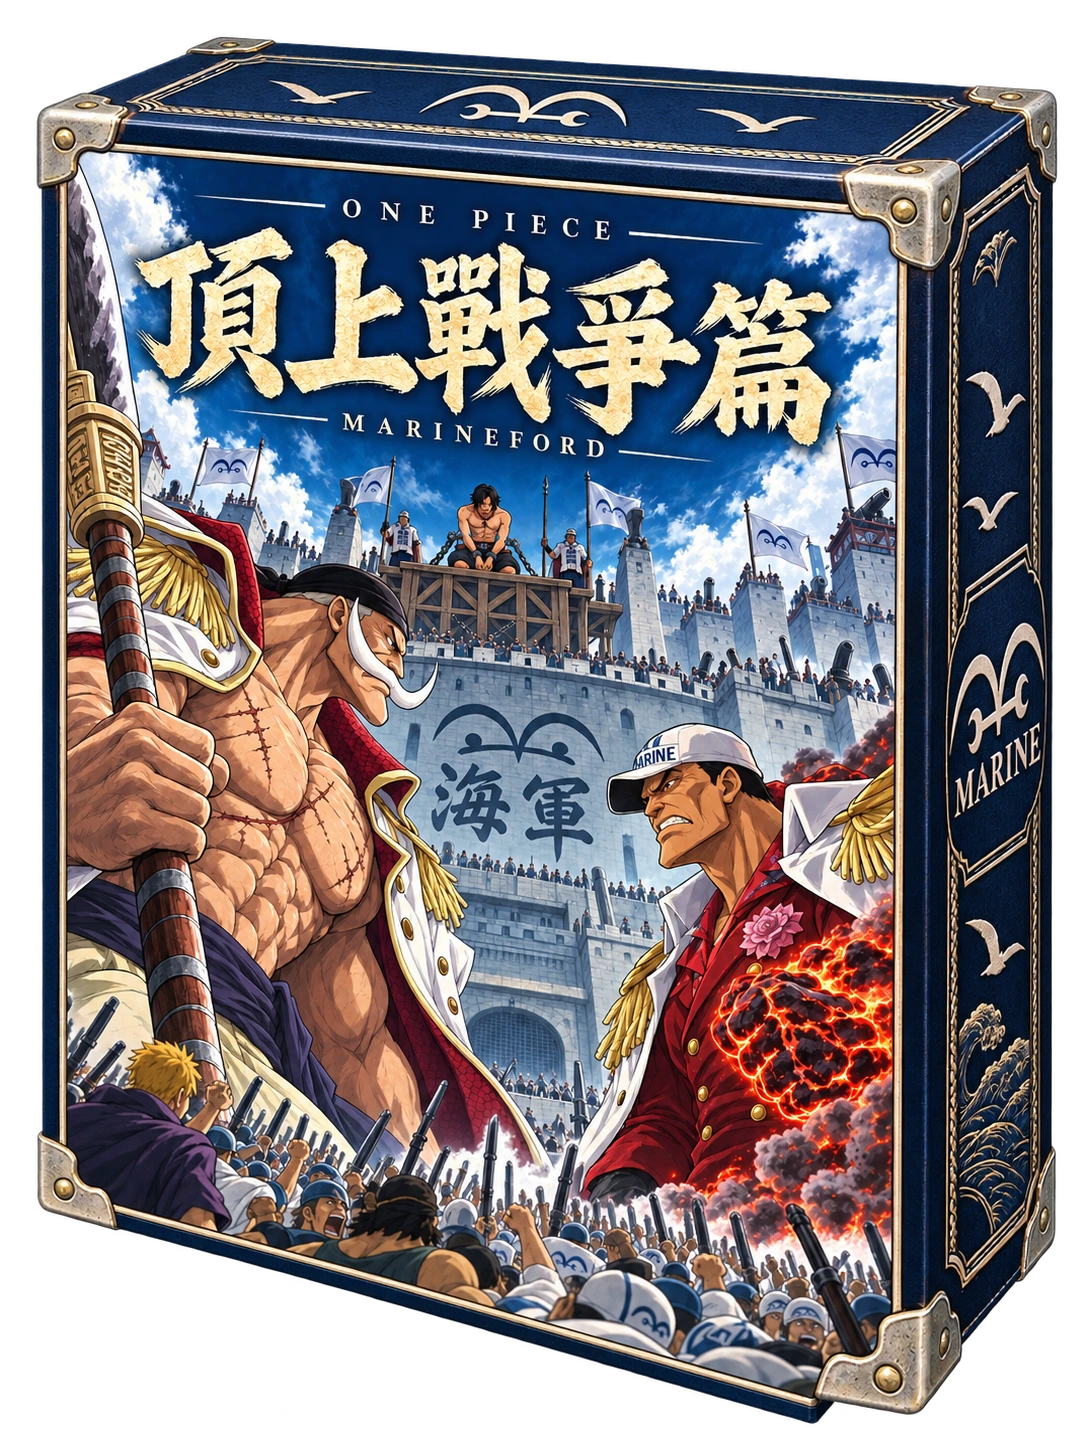
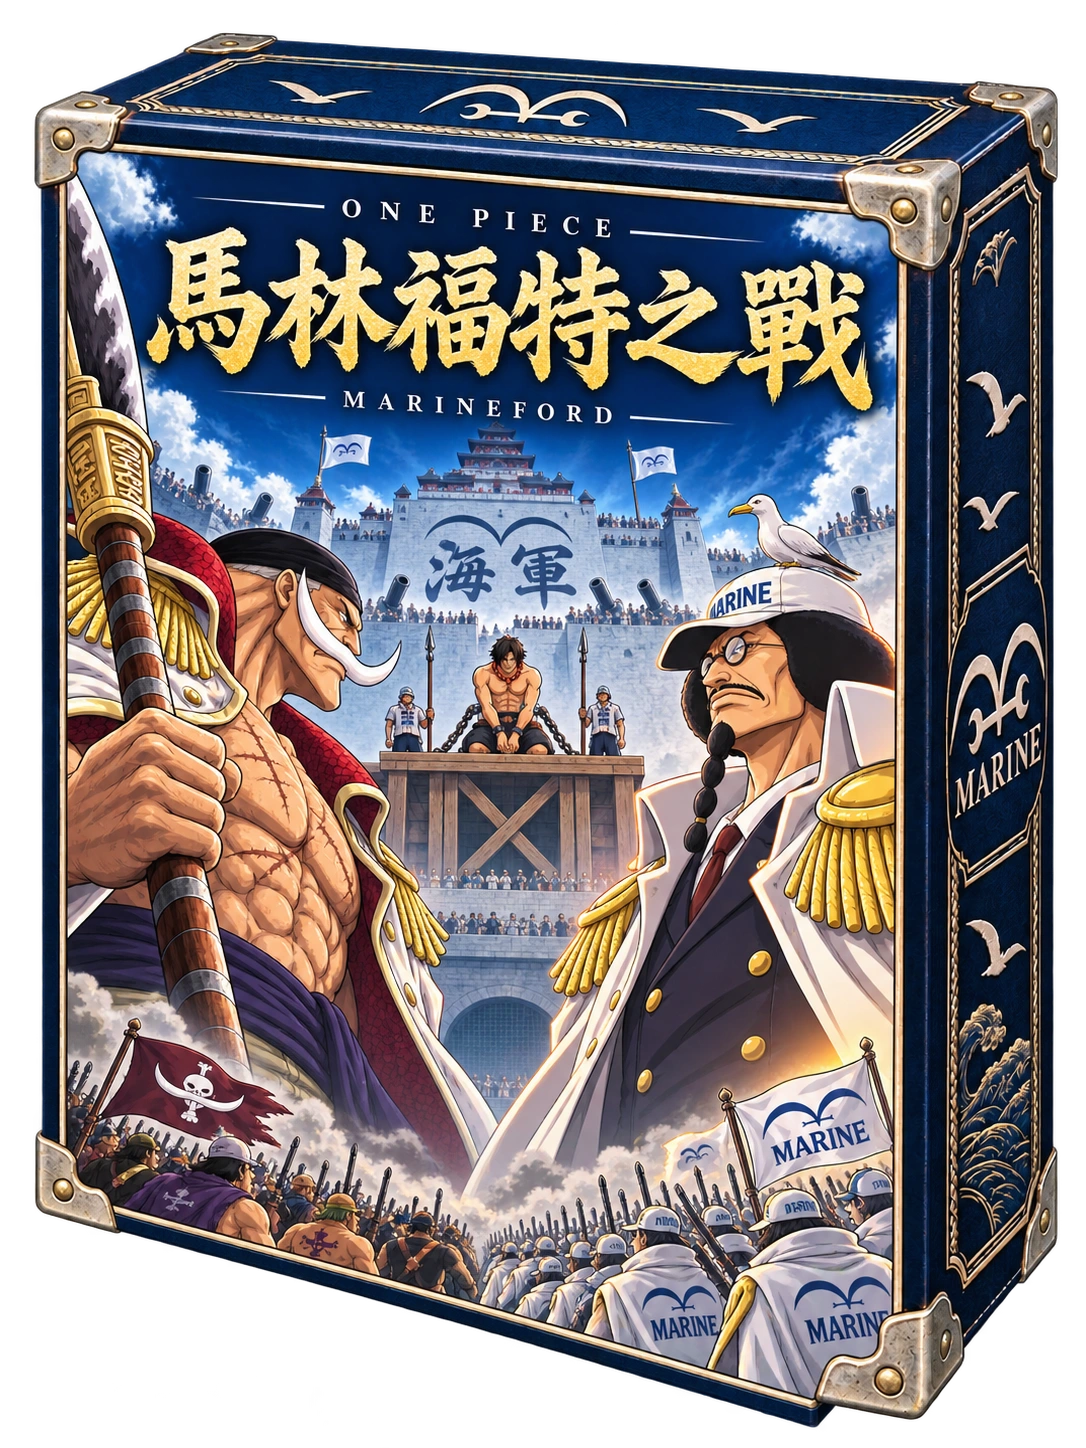
Rename Marineford and refresh launcher covers

diff --git a/public/marineford/marineford.js b/public/marineford/marineford.js
@@ -156,22 +156,22 @@
  socket.on('EMIT',payload=>{
   if(payload?.type==='toast'&&payload.text){notify(payload.text);return;}
   const inv=payload?.invite;if(payload?.type!=='marineford_lobby_invite'||!inv||view)return;
-  document.querySelector('.mf-invite')?.remove();const panel=node('aside',null,'mf-invite');panel.append(node('strong',inv.fromName+' 邀請你加入頂上戰爭篇'),node('p','房間 '+inv.roomId));
+  document.querySelector('.mf-invite')?.remove();const panel=node('aside',null,'mf-invite');panel.append(node('strong',inv.fromName+' 邀請你加入馬林福特之戰'),node('p','房間 '+inv.roomId));
   for(const [label,action] of [['加入','accept'],['拒絕','reject']])panel.append(button(label,async()=>{panel.remove();if(action==='accept'&&(room||view)){notify('請先離開目前房間');return;}const result=await friendRequest('LOBBY_INVITE_RESPOND',{inviteId:inv.inviteId,action});if(result.ok&&action==='accept'){enteredLobby=true;await request('MF_JOIN',{code:result.roomId});}},'small-button'));
   document.body.append(panel);setTimeout(()=>panel.remove(),Math.max(0,inv.expiresAt-Date.now()));
  });
- function renderLobby(){if(view)return;$('menuButton').hidden=!enteredLobby&&!room;document.body.dataset.screen='lobby';$('justice').hidden=true;$('health').replaceChildren();$('lobby').hidden=false;$('table').hidden=true;const body=$('lobbyBody');body.replaceChildren();$('lobby').dataset.waiting=String(!!room);$('lobby').dataset.splash=String(authenticated&&!room&&!enteredLobby);$('lobby').dataset.mode=!room&&enteredLobby&&authenticated?'main':'entry';if(!authenticated){body.append(node('p','請從啟動器登入帳號後進入頂上戰爭篇。'));return;}
-  if(!room&&!enteredLobby){const enter=button('',()=>{enteredLobby=true;renderLobby();},'mf-splash');enter.setAttribute('aria-label','點擊進入');enter.append(node('span','MARINEFORD','mf-splash-kicker'),node('strong','頂上戰爭篇','mf-splash-title'),node('span','點擊進入','mf-splash-prompt'));body.append(enter);return;}
+ function renderLobby(){if(view)return;$('menuButton').hidden=!enteredLobby&&!room;document.body.dataset.screen='lobby';$('justice').hidden=true;$('health').replaceChildren();$('lobby').hidden=false;$('table').hidden=true;const body=$('lobbyBody');body.replaceChildren();$('lobby').dataset.waiting=String(!!room);$('lobby').dataset.splash=String(authenticated&&!room&&!enteredLobby);$('lobby').dataset.mode=!room&&enteredLobby&&authenticated?'main':'entry';if(!authenticated){body.append(node('p','請從啟動器登入帳號後進入馬林福特之戰。'));return;}
+  if(!room&&!enteredLobby){const enter=button('',()=>{enteredLobby=true;renderLobby();},'mf-splash');enter.setAttribute('aria-label','點擊進入');enter.append(node('span','MARINEFORD','mf-splash-kicker'),node('strong','馬林福特之戰','mf-splash-title'),node('span','點擊進入','mf-splash-prompt'));body.append(enter);return;}
   if(!room){const identity=node('div',null,'lobby-identity');identity.append(avatar(you),node('strong',me.name),node('span','已登入'));body.append(identity);
    const row=node('div',null,'lobby-entry lobby-menu');
    row.append(button('開始遊戲',openRoomChoice),button('個人頁面',profile),button('遊戲規則',showRules));
    body.append(row);
    const links=node('div',null,'lobby-links');
-   links.append(button('好友',openFriends,'small-button'),button('卡片圖鑑',()=>gallery('頂上戰爭 · 卡片圖鑑',Object.keys(cards)),'small-button'));
+   links.append(button('好友',openFriends,'small-button'),button('卡片圖鑑',()=>gallery('馬林福特之戰 · 卡片圖鑑',Object.keys(cards)),'small-button'));
    body.append(links);return;}
   const waiting=node('section',null,'mf-waiting');
   const header=node('header'),title=node('div'),controls=node('div',null,'lobby-actions');
-  title.append(node('small','頂上戰爭篇 · 等待室'),node('h2',room.code,'room-code'));
+  title.append(node('small','馬林福特之戰 · 等待室'),node('h2',room.code,'room-code'));
   controls.append(button('複製房號',async()=>{try{await navigator.clipboard.writeText(room.code);notify('房號已複製');}catch{notify('房號 '+room.code);}},'small-button'),button('好友邀請',openFriends,'small-button'),button('離開房間',leave,'small-button'));
   header.append(title,controls);waiting.append(header);
   const host=Number(me.userId)===Number(room.host),people=room.seats.filter(p=>!p.cpu),cpus=room.seats.filter(p=>p.cpu);
@@ -339,7 +339,7 @@
  function showResult(){
   if(view?.phase!=='ended')return;
   const match=view,team=match.players[you].team,won=team===match.winner;
-  const result=resultText(match),body=sheet('頂上戰爭 · 戰役結算','campaign-result');
+  const result=resultText(match),body=sheet('馬林福特之戰 · 戰役結算','campaign-result');
   const banner=node('div',null,'campaign-banner'),verdict=node('div');
   banner.dataset.team=match.winner;
   verdict.append(node('small',teamName(team)+'視角 · '+(won?'勝利':'落敗')),node('h3',result.title),node('p',result.reason));
@@ -608,7 +608,7 @@
  socket.on('disconnect',()=>{authenticated=false;reset();$('connection').textContent='重新連線中…';closeSheet();});
  socket.on('connect',async()=>{let secret='',deviceId='';try{secret=localStorage.getItem('opSecret')||localStorage.getItem('op_secret')||'';deviceId=localStorage.getItem('op_device_id')||'';}catch{}if(!secret){$('connection').textContent='尚未登入';renderLobby();return;}const result=await request('SOCIAL_AUTH',{secret,deviceId});if(!result.ok)return;me=result.me;authenticated=true;$('connection').textContent='已連線';const saved=sessionStorage.getItem('marineford.room');if(saved){const joined=await request('MF_JOIN',{code:saved});if(!joined.ok){sessionStorage.removeItem('marineford.room');room=null;view=null;}}render();});
  $('sheetClose').onclick=closeSheet;
- function openMatchMenu(){const body=sheet('頂上戰爭篇');body.append(button('返回牌桌',closeSheet),button('我的航海者檔案',profile),button(window.MFSound?.muted?'音效：關閉':'音效：開啟',event=>{const muted=window.MFSound.toggle();event.currentTarget.textContent=muted?'音效：關閉':'音效：開啟';}),button('卡片圖鑑',()=>gallery('卡片圖鑑',Object.keys(cards))),button('遊戲規則',showRules),button(view?.phase==='playing'?'繼續對局':'離開房間',view?.phase==='playing'?closeSheet:leave));if(view&&me?.userId===room?.host)body.append(button('結束本場並回大廳',()=>{const b=sheet('結束本場對局？');b.append(node('p','所有玩家會回到大廳，本場不計結果。'),button('確認結束',()=>request('MF_CLOSE')),button('繼續對局',closeSheet));}));};
+ function openMatchMenu(){const body=sheet('馬林福特之戰');body.append(button('返回牌桌',closeSheet),button('我的航海者檔案',profile),button(window.MFSound?.muted?'音效：關閉':'音效：開啟',event=>{const muted=window.MFSound.toggle();event.currentTarget.textContent=muted?'音效：關閉':'音效：開啟';}),button('卡片圖鑑',()=>gallery('卡片圖鑑',Object.keys(cards))),button('遊戲規則',showRules),button(view?.phase==='playing'?'繼續對局':'離開房間',view?.phase==='playing'?closeSheet:leave));if(view&&me?.userId===room?.host)body.append(button('結束本場並回大廳',()=>{const b=sheet('結束本場對局？');b.append(node('p','所有玩家會回到大廳，本場不計結果。'),button('確認結束',()=>request('MF_CLOSE')),button('繼續對局',closeSheet));}));};
  $('menuButton').onclick=openMatchMenu;
  fetch('cards.json').then(r=>{if(!r.ok)throw Error();return r.json();}).then(list=>{cards=Object.fromEntries(list.map(c=>[c.id,c]));render();}).catch(()=>notify('卡片資料載入失敗，請重新進入遊戲'));
 })();

diff --git a/public/marineford/index.html b/public/marineford/index.html
@@ -1,9 +1,9 @@
 <!doctype html>
-<html lang="zh-Hant"><head><meta charset="utf-8"><meta name="viewport" content="width=device-width,initial-scale=1,viewport-fit=cover"><title>頂上戰爭篇</title><link rel="stylesheet" href="marineford.css"></head>
+<html lang="zh-Hant"><head><meta charset="utf-8"><meta name="viewport" content="width=device-width,initial-scale=1,viewport-fit=cover"><title>馬林福特之戰</title><link rel="stylesheet" href="marineford.css"></head>
 <body>
 <main id="app">
  <header id="top"><button id="menuButton" class="nav-button" aria-label="選單" title="選單"><span aria-hidden="true">☰</span></button><div id="health"></div><span id="connection" role="status">連線中…</span></header>
- <section id="lobby"><div class="lobby-title"><div><small>ONE PIECE · MARINEFORD</small><h1>頂上戰爭篇</h1><p>守住正義，或突破防線。<br>決定艾斯命運的戰爭，即將開始。</p><span class="lobby-tagline">一位海軍 · 一支海賊團 · 同一場決戰</span></div></div><div id="lobbyBody"></div></section>
+ <section id="lobby"><div class="lobby-title"><div><small>ONE PIECE · MARINEFORD</small><h1>馬林福特之戰</h1><p>守住正義，或突破防線。<br>決定艾斯命運的戰爭，即將開始。</p><span class="lobby-tagline">一位海軍 · 一支海賊團 · 同一場決戰</span></div></div><div id="lobbyBody"></div></section>
  <section id="table" hidden><div id="players"></div><div id="deckZone"></div><div id="hand" aria-label="我的手牌"></div><div class="table-controls"><div id="center"><p id="turnLabel"></p><p id="status" role="status"></p></div><div id="actions"></div></div><div id="justice" aria-label="公開正義卡" hidden></div></section>
  <section id="sheet" hidden aria-modal="true" aria-labelledby="sheetTitle" role="dialog"><header><h2 id="sheetTitle"></h2><button id="sheetClose" class="nav-button">返回牌桌</button></header><div id="sheetBody"></div></section>
  <div id="effectLayer" aria-live="polite"></div><p id="toast" role="alert" hidden></p>

diff --git a/desktop/launcher.js b/desktop/launcher.js
@@ -84,7 +84,7 @@ const GAMES = [
 ];
 
 // Independent online game; original three entries and their download contracts stay intact.
-GAMES.push({ ...GAMES[0], id: 'marineford', title: '頂上戰爭篇', english: 'MARINEFORD',
+GAMES.push({ ...GAMES[0], id: 'marineford', title: '馬林福特之戰', english: 'MARINEFORD',
   tagline: '一位海軍，迎戰整個白鬍子海賊團。',
   description: '2–6 人非對稱合作對戰。海軍保留兩張手牌，海賊團各留一張；猜牌、看牌、士氣與決鬥，每一次選擇都牽動陣營戰力。',
   detailDescription: '由一位玩家扮演海軍，對抗一至五位白鬍子海賊團隊長。依順位抽一張、打一張，善用公開情報和士氣。海軍集齊六種正義或擊潰海賊團獲勝；海賊團則要將海軍戰力歸零。支援 CPU 和跨裝置房間。',

diff --git a/desktop/launcher-profile-shop.js b/desktop/launcher-profile-shop.js
@@ -3,7 +3,7 @@
   const api = window.onePieceDesktop;
   const $ = id => document.getElementById(id);
   const GAME_META = [
-    { id: 'marineford', title: '頂上戰爭篇', english: 'MARINEFORD', cover: 'launcher_marineford_box_v3.webp' },
+    { id: 'marineford', title: '馬林福特之戰', english: 'MARINEFORD', cover: 'launcher_marineford_box_v3.webp' },
     { id: 'card', title: '偉大航道爭霸戰', english: 'GRAND LINE RIVALRY', cover: 'launcher_card_cover_perspective_v2.webp' },
     { id: 'board', title: '新世界航海錄', english: 'NEW WORLD VOYAGE', cover: 'launcher_board_cover_logo_perspective_v5.webp' },
     { id: 'chess', title: '霸海戰棋', english: 'PIRATE WAR CHESS', cover: 'launcher_chess_cover_logo_perspective_v5.webp' }

diff --git a/desktop/main.js b/desktop/main.js
@@ -71,7 +71,7 @@ const GAME_CONFIG = {
   card: { title: '偉大航道爭霸戰', entry: '/start.html', partition: 'onepiece-card-desktop-v1' },
   board: { title: '新世界航海錄', entry: '/board_start.html', partition: 'onepiece-board-desktop-v1' },
   chess: { title: '霸海戰棋', entry: '/chess/index.html', partition: 'onepiece-chess-desktop-v1' },
-  marineford: { title: '頂上戰爭篇', entry: '/marineford/index.html', partition: 'onepiece-marineford-desktop-v1', onlineOnly: true }
+  marineford: { title: '馬林福特之戰', entry: '/marineford/index.html', partition: 'onepiece-marineford-desktop-v1', onlineOnly: true }
 };
 
 if (TEST_USER_DATA_PATH && (SMOKE_MODE || !app.isPackaged)) {
